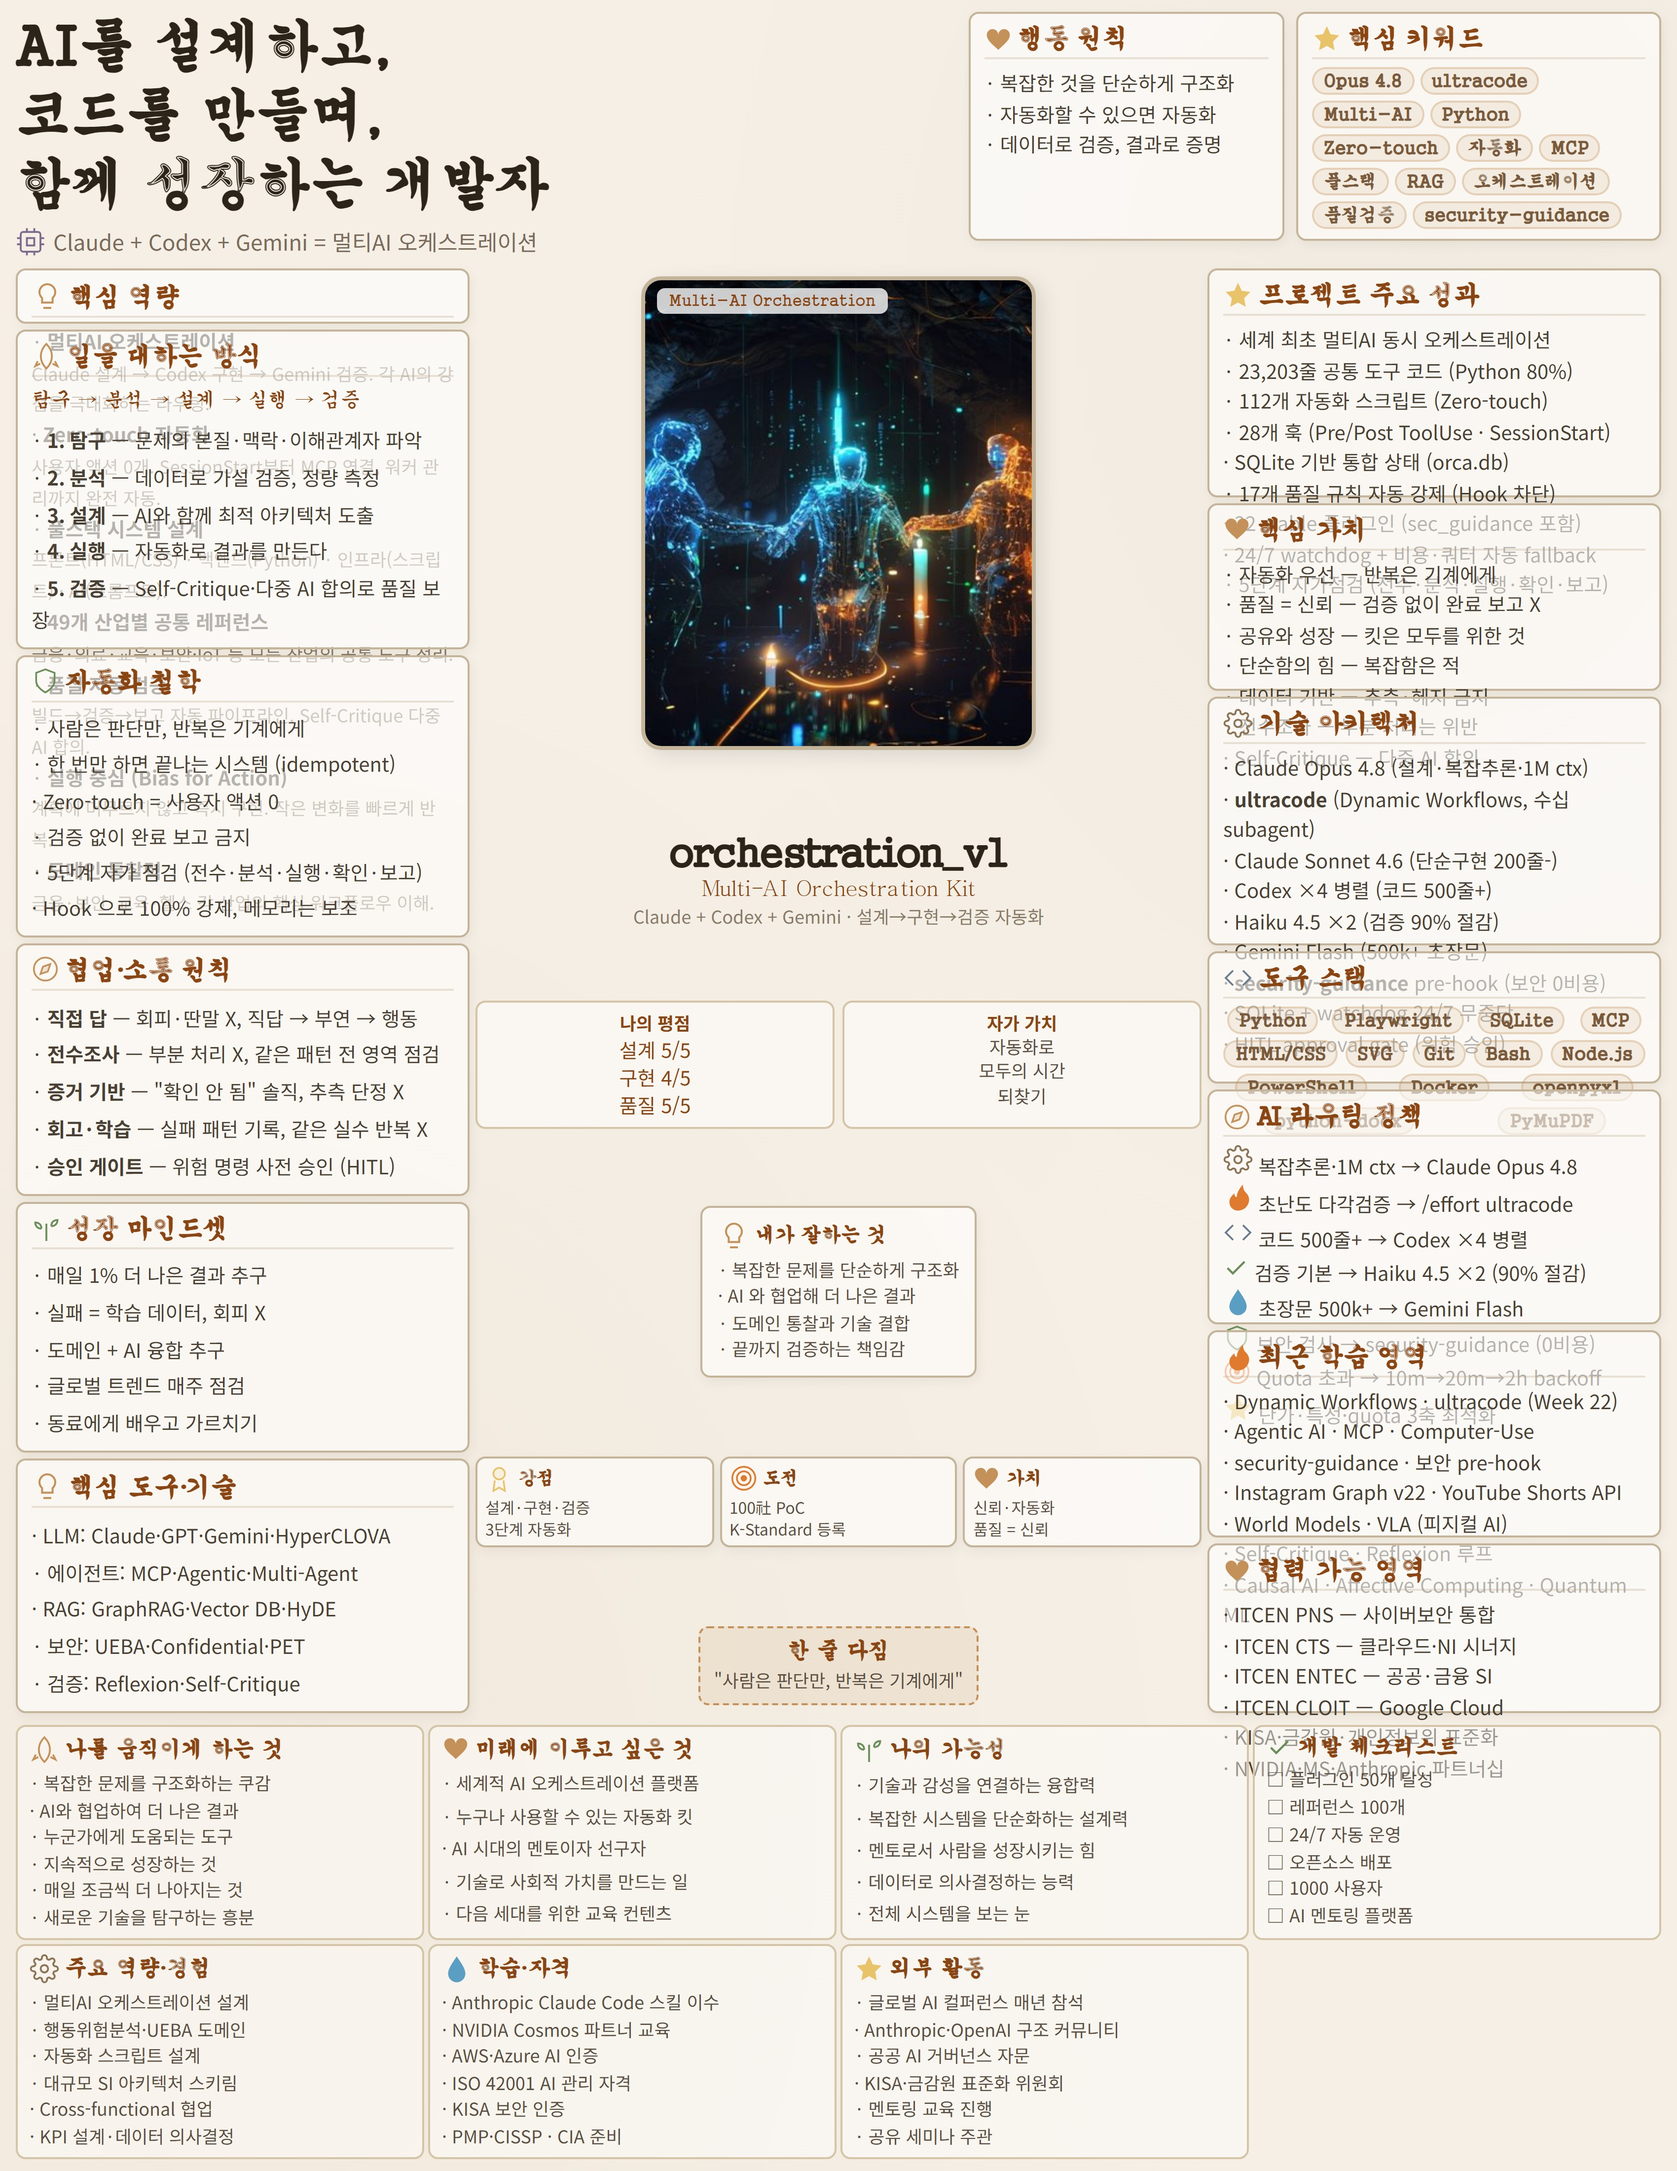
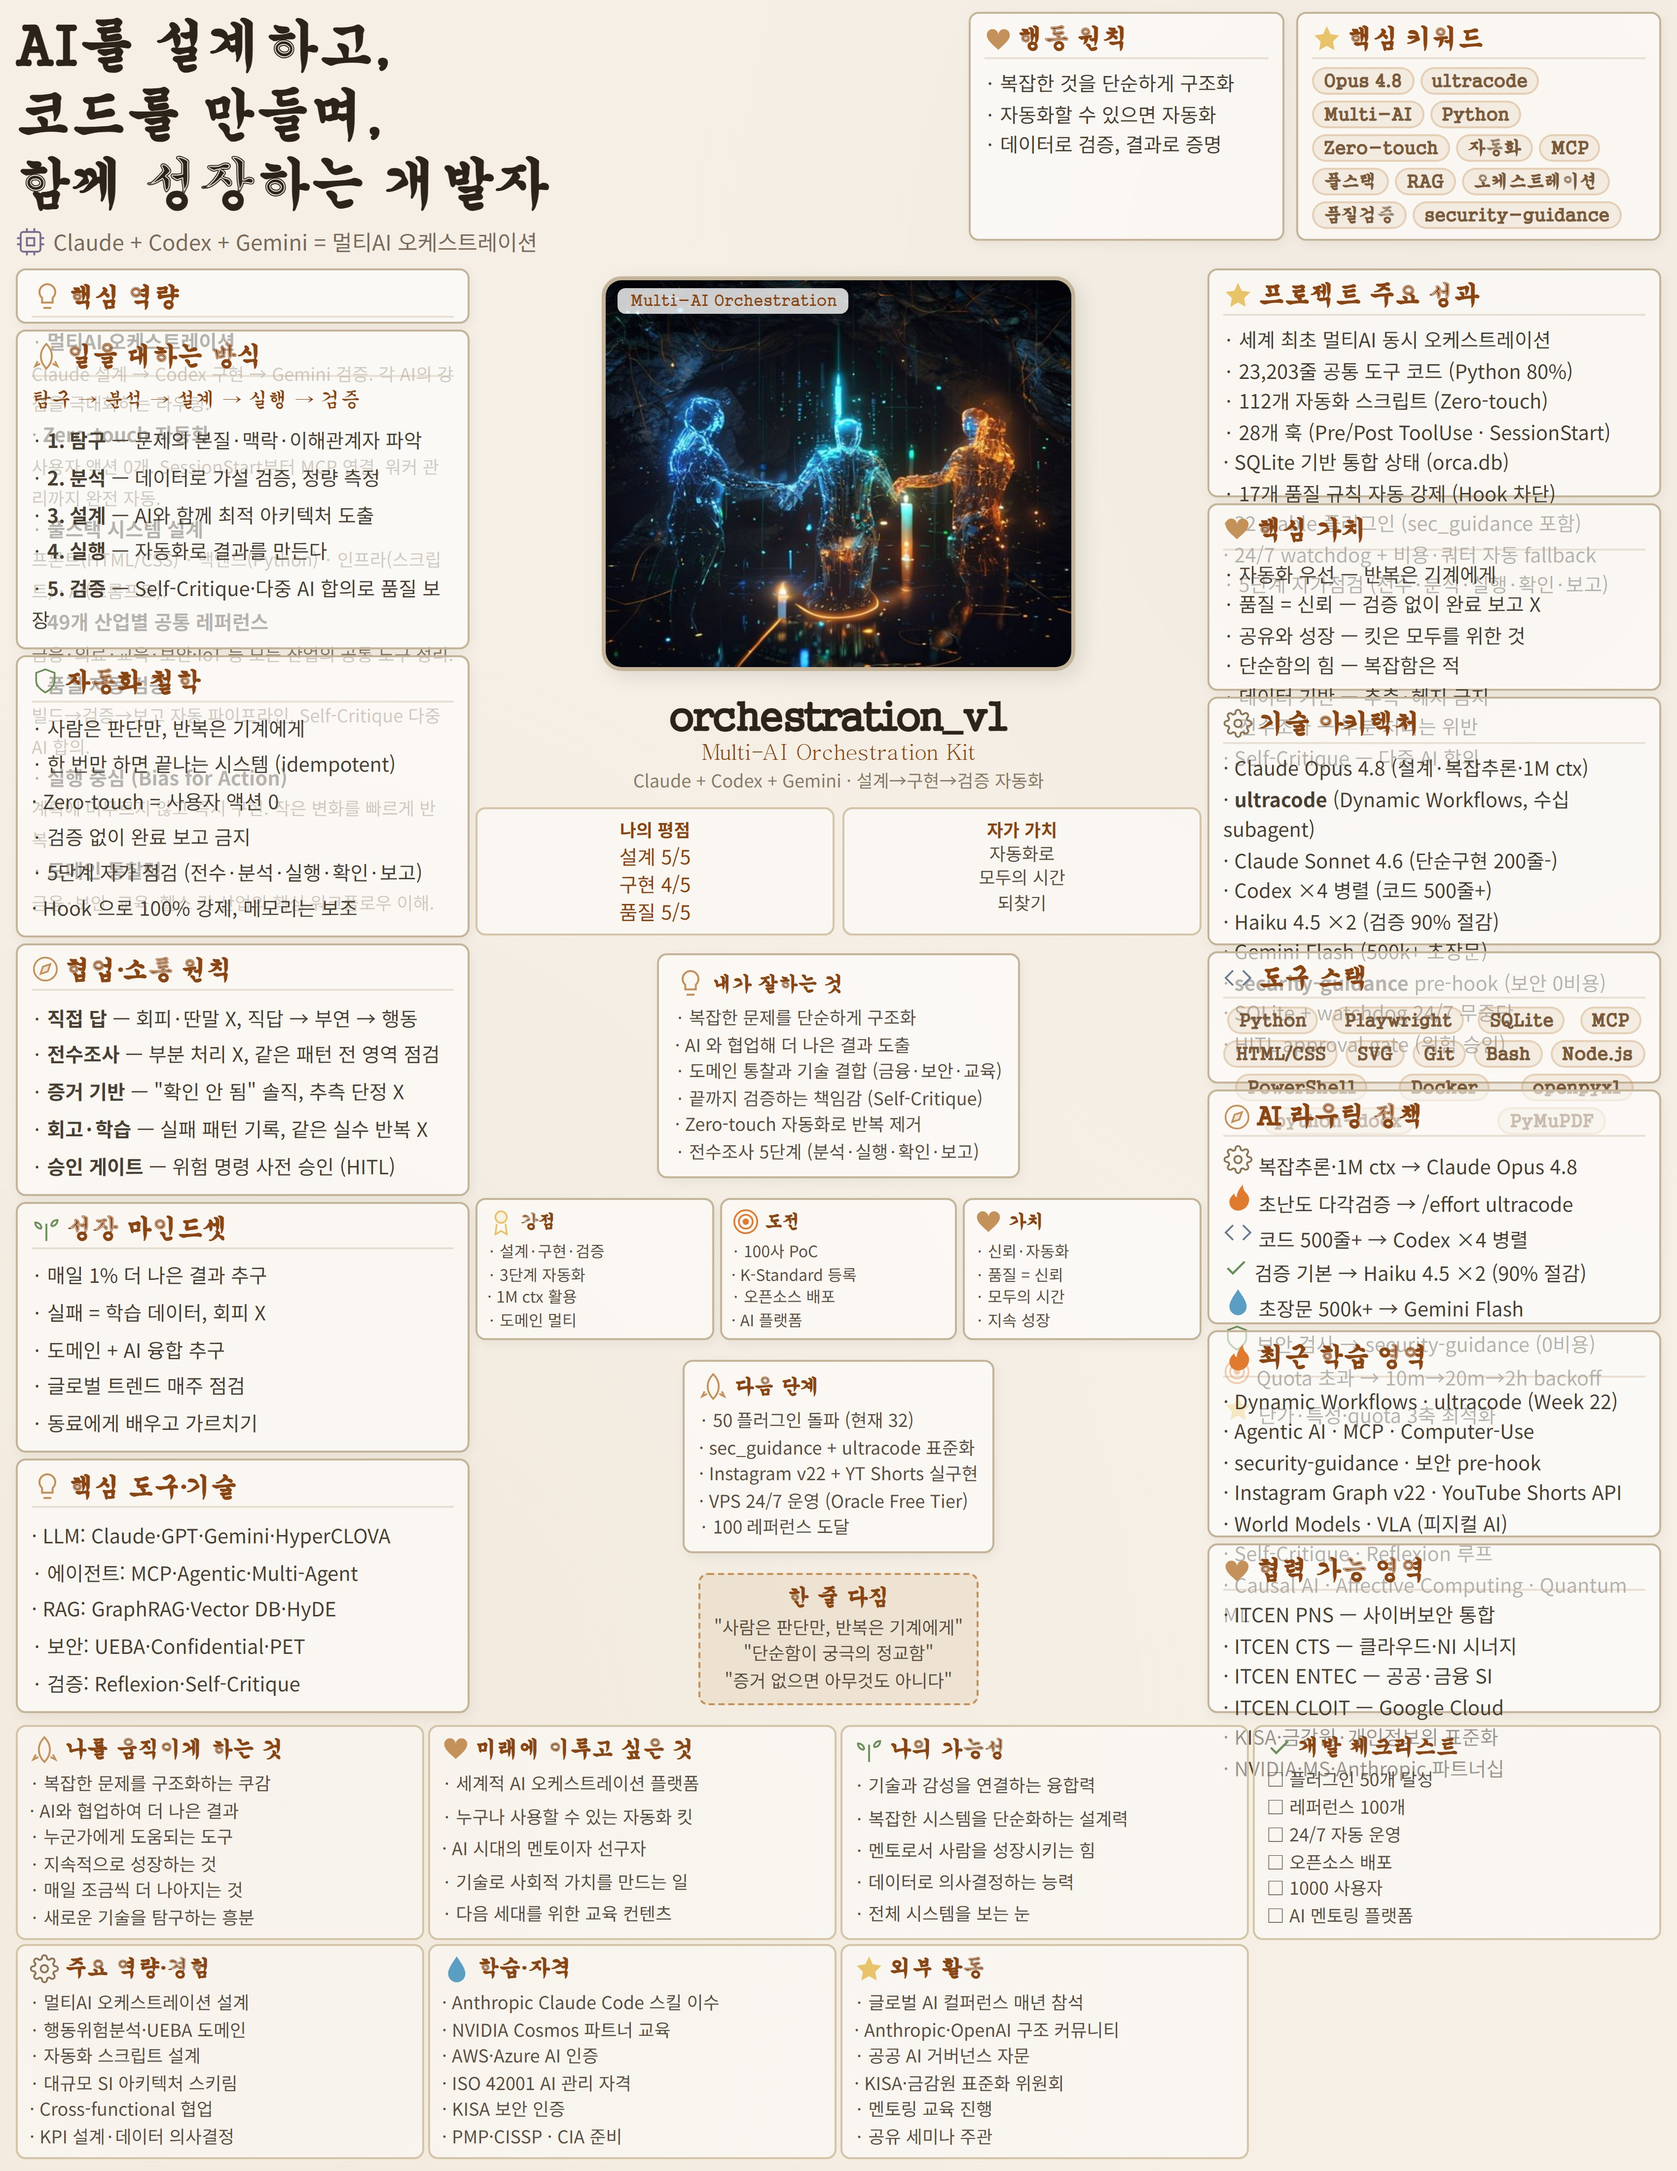
fix(promo): orch-promo 여백 제거 — ssj-summary 수준 밀도
ssj-summary.jpg 와 비교 시 중앙 컬럼·하단에 빈 공간이 보였던 문제.
디자인 원칙 (memory: feedback_no_whitespace_design): 여백=실패, 카드·키워드로 채움.

변경:
- 사진 200x240 → 100% width × 200px (컬럼 폭 활용)
- "내가 잘하는 것" 4행 → 6행 (Zero-touch·전수조사 추가)
- 강점·도전·가치 mini cards 2행 → 4행 each
- "다음 단계" 카드 신규 (5 bullets: 50 plugin·sec_guidance·ig·VPS·100 ref)
- "한 줄 다짐" 1 quote → 3 quotes (단순함·증거 추가)

Changed region(s): [[0.3429, 0.1245, 0.6547, 0.7784], [0.2806, 0.5605, 0.3429, 0.6227], [0.2806, 0.6539, 0.3429, 0.7161]]

diff --git a/docs/ssj/orch-promo.html b/docs/ssj/orch-promo.html
@@ -58,7 +58,7 @@ body{width:850px;height:1100px;background:#f5efe6;
 .mid-left .card ul,.mid-right .card ul,.mid-left .card .tags,.mid-right .card .tags{flex:1 1 auto;display:flex;flex-direction:column;justify-content:space-around}
 .mid-left .card .tags,.mid-right .card .tags{flex-direction:row;flex-wrap:wrap;align-content:space-around}
 .center{display:flex;flex-direction:column;align-items:center;justify-content:space-between;gap:6px;padding:4px 0;min-height:0}
-.photo{width:200px;height:240px;border-radius:10px;object-fit:cover;border:2.5px solid #c4b49a;box-shadow:3px 3px 10px rgba(0,0,0,.1);flex-shrink:0}
+.photo{width:100%;max-width:300px;height:200px;border-radius:10px;object-fit:cover;border:2.5px solid #c4b49a;box-shadow:3px 3px 10px rgba(0,0,0,.1);flex-shrink:0}
 .name-area{text-align:center;flex-shrink:0}
 .name-area .nm{font-family:'Gaegu',cursive;font-size:20px;font-weight:700;color:#2c2418}
 .name-area .inf{font-size:9px;color:#8a7a68;margin-top:1px}
@@ -186,28 +186,59 @@ body{width:850px;height:1100px;background:#f5efe6;
       <h3 style="font-size:10px;border:none;padding:0;margin-bottom:3px"><svg viewBox="0 0 24 24" width="16" height="16" fill="none" stroke="#c4915a" stroke-width="1.5"><path d="M9 21h6M12 3a6 6 0 0 0-4 10.5V17h8v-3.5A6 6 0 0 0 12 3z"/></svg> 내가 잘하는 것</h3>
       <div style="font-size:9px;color:#5a4f42;line-height:1.5">
         · 복잡한 문제를 단순하게 구조화<br>
-        · AI 와 협업해 더 나은 결과<br>
-        · 도메인 통찰과 기술 결합<br>
-        · 끝까지 검증하는 책임감
+        · AI 와 협업해 더 나은 결과 도출<br>
+        · 도메인 통찰과 기술 결합 (금융·보안·교육)<br>
+        · 끝까지 검증하는 책임감 (Self-Critique)<br>
+        · Zero-touch 자동화로 반복 제거<br>
+        · 전수조사 5단계 (분석·실행·확인·보고)
       </div>
     </div>
-    <div style="display:grid;grid-template-columns:repeat(3,1fr);gap:3px;width:100%;margin-top:4px">
-      <div class="card" style="padding:3px 4px">
+    <div style="display:grid;grid-template-columns:repeat(3,1fr);gap:3px;width:100%;margin-top:3px">
+      <div class="card" style="padding:4px 5px">
         <h3 style="font-size:9px;margin-bottom:2px;border:none;padding:0"><svg viewBox="0 0 24 24" width="14" height="14" fill="none" stroke="#e8c36a" stroke-width="1.5"><circle cx="12" cy="8" r="5" fill="rgba(232,195,106,.12)"/><path d="M8.21 13.89L7 23l5-3 5 3-1.21-9.12"/></svg> 강점</h3>
-        <div style="font-size:8px;color:#5a4f42;line-height:1.4">설계·구현·검증<br>3단계 자동화</div>
+        <div style="font-size:8px;color:#5a4f42;line-height:1.45">
+          · 설계·구현·검증<br>
+          · 3단계 자동화<br>
+          · 1M ctx 활용<br>
+          · 도메인 멀티
+        </div>
       </div>
-      <div class="card" style="padding:3px 4px">
+      <div class="card" style="padding:4px 5px">
         <h3 style="font-size:9px;margin-bottom:2px;border:none;padding:0"><svg viewBox="0 0 24 24" width="14" height="14" fill="none" stroke="#e07a2f" stroke-width="1.5"><circle cx="12" cy="12" r="10"/><circle cx="12" cy="12" r="6"/><circle cx="12" cy="12" r="2" fill="#e07a2f"/></svg> 도전</h3>
-        <div style="font-size:8px;color:#5a4f42;line-height:1.4">100社 PoC<br>K-Standard 등록</div>
+        <div style="font-size:8px;color:#5a4f42;line-height:1.45">
+          · 100사 PoC<br>
+          · K-Standard 등록<br>
+          · 오픈소스 배포<br>
+          · AI 플랫폼
+        </div>
       </div>
-      <div class="card" style="padding:3px 4px">
+      <div class="card" style="padding:4px 5px">
         <h3 style="font-size:9px;margin-bottom:2px;border:none;padding:0"><svg viewBox="0 0 24 24" width="14" height="14" fill="#c4915a" stroke="none"><path d="M12 21C8 17 2 13 2 8a5 5 0 0 1 10 0 5 5 0 0 1 10 0c0 5-6 9-10 13z"/></svg> 가치</h3>
-        <div style="font-size:8px;color:#5a4f42;line-height:1.4">신뢰·자동화<br>품질 = 신뢰</div>
+        <div style="font-size:8px;color:#5a4f42;line-height:1.45">
+          · 신뢰·자동화<br>
+          · 품질 = 신뢰<br>
+          · 모두의 시간<br>
+          · 지속 성장
+        </div>
       </div>
     </div>
-    <div style="background:rgba(196,145,90,.12);border:1px dashed #c4915a;border-radius:5px;padding:5px 7px;margin-top:4px;text-align:center">
+    <div class="card" style="padding:5px 7px;margin-top:3px">
+      <h3 style="font-size:10px;border:none;padding:0;margin-bottom:3px"><svg viewBox="0 0 24 24" width="15" height="15" fill="none" stroke="#c4915a" stroke-width="1.5"><path d="M12 2C6 8 6 16 12 22c6-6 6-14 0-20zM5 16l-2 4 4-2M19 16l2 4-4-2"/></svg> 다음 단계</h3>
+      <div style="font-size:9px;color:#5a4f42;line-height:1.5">
+        · 50 플러그인 돌파 (현재 32)<br>
+        · sec_guidance + ultracode 표준화<br>
+        · Instagram v22 + YT Shorts 실구현<br>
+        · VPS 24/7 운영 (Oracle Free Tier)<br>
+        · 100 레퍼런스 도달
+      </div>
+    </div>
+    <div style="background:rgba(196,145,90,.12);border:1px dashed #c4915a;border-radius:5px;padding:5px 7px;margin-top:3px;text-align:center">
       <div style="font-family:'Gaegu',cursive;font-size:11px;color:#8b4513;font-weight:700">한 줄 다짐</div>
-      <div style="font-size:9px;color:#5a4f42;margin-top:2px">"사람은 판단만, 반복은 기계에게"</div>
+      <div style="font-size:9px;color:#5a4f42;margin-top:2px;line-height:1.5">
+        "사람은 판단만, 반복은 기계에게"<br>
+        "단순함이 궁극의 정교함"<br>
+        "증거 없으면 아무것도 아니다"
+      </div>
     </div>
   </div>
 

diff --git a/docs/ssj/render-ssj.py b/docs/ssj/render-ssj.py
@@ -103,7 +103,7 @@ body{{width:850px;height:1100px;background:#f5efe6;
 .mid-left .card ul,.mid-right .card ul,.mid-left .card .tags,.mid-right .card .tags{{flex:1 1 auto;display:flex;flex-direction:column;justify-content:space-around}}
 .mid-left .card .tags,.mid-right .card .tags{{flex-direction:row;flex-wrap:wrap;align-content:space-around}}
 .center{{display:flex;flex-direction:column;align-items:center;justify-content:space-between;gap:6px;padding:4px 0;min-height:0}}
-.photo{{width:200px;height:240px;border-radius:10px;object-fit:cover;border:2.5px solid #c4b49a;box-shadow:3px 3px 10px rgba(0,0,0,.1);flex-shrink:0}}
+.photo{{width:100%;max-width:300px;height:200px;border-radius:10px;object-fit:cover;border:2.5px solid #c4b49a;box-shadow:3px 3px 10px rgba(0,0,0,.1);flex-shrink:0}}
 .name-area{{text-align:center;flex-shrink:0}}
 .name-area .nm{{font-family:'Gaegu',cursive;font-size:20px;font-weight:700;color:#2c2418}}
 .name-area .inf{{font-size:9px;color:#8a7a68;margin-top:1px}}
@@ -231,28 +231,59 @@ body{{width:850px;height:1100px;background:#f5efe6;
       <h3 style="font-size:10px;border:none;padding:0;margin-bottom:3px">{I['bulb']} \ub0b4\uac00 \uc798\ud558\ub294 \uac83</h3>
       <div style="font-size:9px;color:#5a4f42;line-height:1.5">
         \u00b7 \ubcf5\uc7a1\ud55c \ubb38\uc81c\ub97c \ub2e8\uc21c\ud558\uac8c \uad6c\uc870\ud654<br>
-        \u00b7 AI \uc640 \ud611\uc5c5\ud574 \ub354 \ub098\uc740 \uacb0\uacfc<br>
-        \u00b7 \ub3c4\uba54\uc778 \ud1b5\ucc30\uacfc \uae30\uc220 \uacb0\ud569<br>
-        \u00b7 \ub05d\uae4c\uc9c0 \uac80\uc99d\ud558\ub294 \ucc45\uc784\uac10
+        \u00b7 AI \uc640 \ud611\uc5c5\ud574 \ub354 \ub098\uc740 \uacb0\uacfc \ub3c4\ucd9c<br>
+        \u00b7 \ub3c4\uba54\uc778 \ud1b5\ucc30\uacfc \uae30\uc220 \uacb0\ud569 (\uae08\uc735\u00b7\ubcf4\uc548\u00b7\uad50\uc721)<br>
+        \u00b7 \ub05d\uae4c\uc9c0 \uac80\uc99d\ud558\ub294 \ucc45\uc784\uac10 (Self-Critique)<br>
+        \u00b7 Zero-touch \uc790\ub3d9\ud654\ub85c \ubc18\ubcf5 \uc81c\uac70<br>
+        \u00b7 \uc804\uc218\uc870\uc0ac 5\ub2e8\uacc4 (\ubd84\uc11d\u00b7\uc2e4\ud589\u00b7\ud655\uc778\u00b7\ubcf4\uace0)
       </div>
     </div>
-    <div style="display:grid;grid-template-columns:repeat(3,1fr);gap:3px;width:100%;margin-top:4px">
-      <div class="card" style="padding:3px 4px">
+    <div style="display:grid;grid-template-columns:repeat(3,1fr);gap:3px;width:100%;margin-top:3px">
+      <div class="card" style="padding:4px 5px">
         <h3 style="font-size:9px;margin-bottom:2px;border:none;padding:0">{I['medal']} \uac15\uc810</h3>
-        <div style="font-size:8px;color:#5a4f42;line-height:1.4">\uc124\uacc4\u00b7\uad6c\ud604\u00b7\uac80\uc99d<br>3\ub2e8\uacc4 \uc790\ub3d9\ud654</div>
+        <div style="font-size:8px;color:#5a4f42;line-height:1.45">
+          \u00b7 \uc124\uacc4\u00b7\uad6c\ud604\u00b7\uac80\uc99d<br>
+          \u00b7 3\ub2e8\uacc4 \uc790\ub3d9\ud654<br>
+          \u00b7 1M ctx \ud65c\uc6a9<br>
+          \u00b7 \ub3c4\uba54\uc778 \uba40\ud2f0
+        </div>
       </div>
-      <div class="card" style="padding:3px 4px">
+      <div class="card" style="padding:4px 5px">
         <h3 style="font-size:9px;margin-bottom:2px;border:none;padding:0">{I['target']} \ub3c4\uc804</h3>
-        <div style="font-size:8px;color:#5a4f42;line-height:1.4">100\u793e PoC<br>K-Standard \ub4f1\ub85d</div>
+        <div style="font-size:8px;color:#5a4f42;line-height:1.45">
+          \u00b7 100\uc0ac PoC<br>
+          \u00b7 K-Standard \ub4f1\ub85d<br>
+          \u00b7 \uc624\ud508\uc18c\uc2a4 \ubc30\ud3ec<br>
+          \u00b7 AI \ud50c\ub7ab\ud3fc
+        </div>
       </div>
-      <div class="card" style="padding:3px 4px">
+      <div class="card" style="padding:4px 5px">
         <h3 style="font-size:9px;margin-bottom:2px;border:none;padding:0">{I['heart']} \uac00\uce58</h3>
-        <div style="font-size:8px;color:#5a4f42;line-height:1.4">\uc2e0\ub8b0\u00b7\uc790\ub3d9\ud654<br>\ud488\uc9c8 = \uc2e0\ub8b0</div>
+        <div style="font-size:8px;color:#5a4f42;line-height:1.45">
+          \u00b7 \uc2e0\ub8b0\u00b7\uc790\ub3d9\ud654<br>
+          \u00b7 \ud488\uc9c8 = \uc2e0\ub8b0<br>
+          \u00b7 \ubaa8\ub450\uc758 \uc2dc\uac04<br>
+          \u00b7 \uc9c0\uc18d \uc131\uc7a5
+        </div>
       </div>
     </div>
-    <div style="background:rgba(196,145,90,.12);border:1px dashed #c4915a;border-radius:5px;padding:5px 7px;margin-top:4px;text-align:center">
+    <div class="card" style="padding:5px 7px;margin-top:3px">
+      <h3 style="font-size:10px;border:none;padding:0;margin-bottom:3px">{I['rocket']} \ub2e4\uc74c \ub2e8\uacc4</h3>
+      <div style="font-size:9px;color:#5a4f42;line-height:1.5">
+        \u00b7 50 \ud50c\ub7ec\uadf8\uc778 \ub3cc\ud30c (\ud604\uc7ac 32)<br>
+        \u00b7 sec_guidance + ultracode \ud45c\uc900\ud654<br>
+        \u00b7 Instagram v22 + YT Shorts \uc2e4\uad6c\ud604<br>
+        \u00b7 VPS 24/7 \uc6b4\uc601 (Oracle Free Tier)<br>
+        \u00b7 100 \ub808\ud37c\ub7f0\uc2a4 \ub3c4\ub2ec
+      </div>
+    </div>
+    <div style="background:rgba(196,145,90,.12);border:1px dashed #c4915a;border-radius:5px;padding:5px 7px;margin-top:3px;text-align:center">
       <div style="font-family:'Gaegu',cursive;font-size:11px;color:#8b4513;font-weight:700">\ud55c \uc904 \ub2e4\uc9d0</div>
-      <div style="font-size:9px;color:#5a4f42;margin-top:2px">"\uc0ac\ub78c\uc740 \ud310\ub2e8\ub9cc, \ubc18\ubcf5\uc740 \uae30\uacc4\uc5d0\uac8c"</div>
+      <div style="font-size:9px;color:#5a4f42;margin-top:2px;line-height:1.5">
+        "\uc0ac\ub78c\uc740 \ud310\ub2e8\ub9cc, \ubc18\ubcf5\uc740 \uae30\uacc4\uc5d0\uac8c"<br>
+        "\ub2e8\uc21c\ud568\uc774 \uad81\uadf9\uc758 \uc815\uad50\ud568"<br>
+        "\uc99d\uac70 \uc5c6\uc73c\uba74 \uc544\ubb34\uac83\ub3c4 \uc544\ub2c8\ub2e4"
+      </div>
     </div>
   </div>
 
